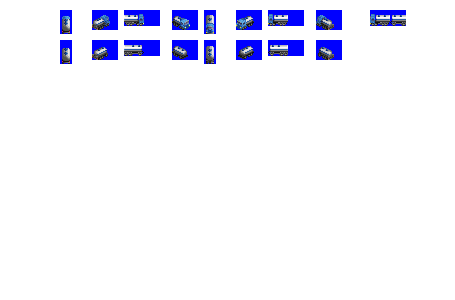
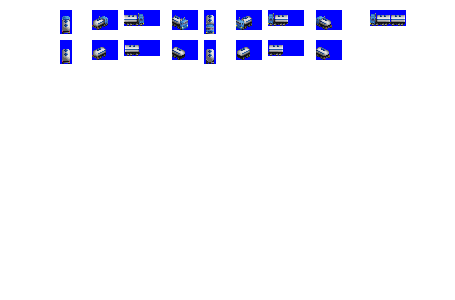
Change: improved appearance of Silvertop and Waterperry edibles tankers

diff --git a/src/vehicles/silvertop.py b/src/vehicles/silvertop.py
@@ -16,7 +16,7 @@ consist.add_unit(weight = 9,
 
 consist.add_unit(weight = 9,
                 capacity = 20,
-                vehicle_length = 5)
+                vehicle_length = 4)
 
 consist.add_model_variant(intro_date=0,
                        end_date=global_constants.max_game_date,

diff --git a/src/vehicles/waterperry.py b/src/vehicles/waterperry.py
@@ -16,7 +16,7 @@ consist.add_unit(weight = 8,
 
 consist.add_unit(weight = 8,
                 capacity = 20,
-                vehicle_length = 5)
+                vehicle_length = 4)
 
 consist.add_model_variant(intro_date=0,
                        end_date=global_constants.max_game_date,
